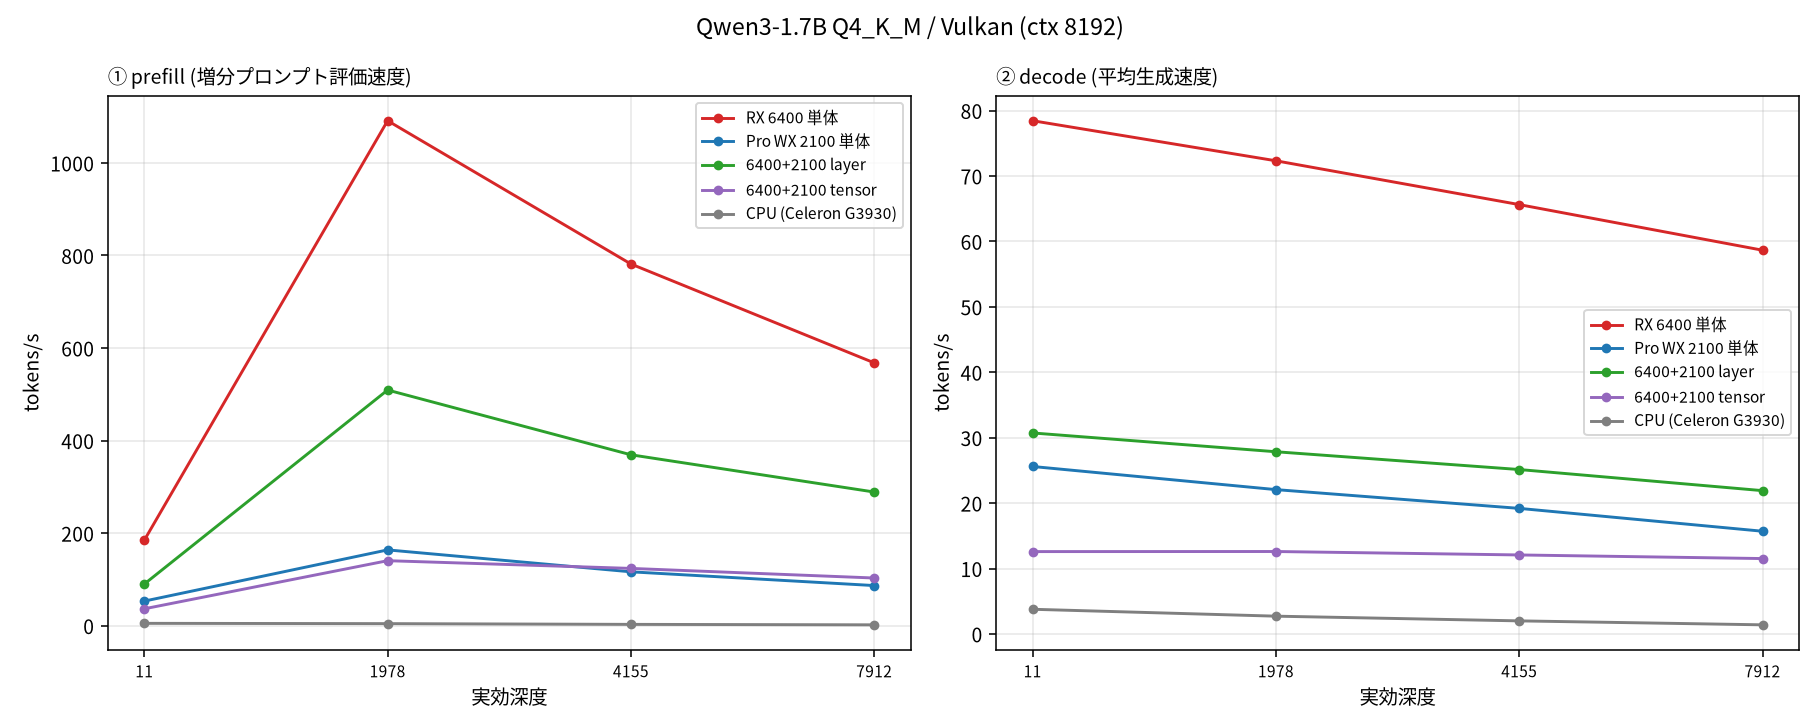
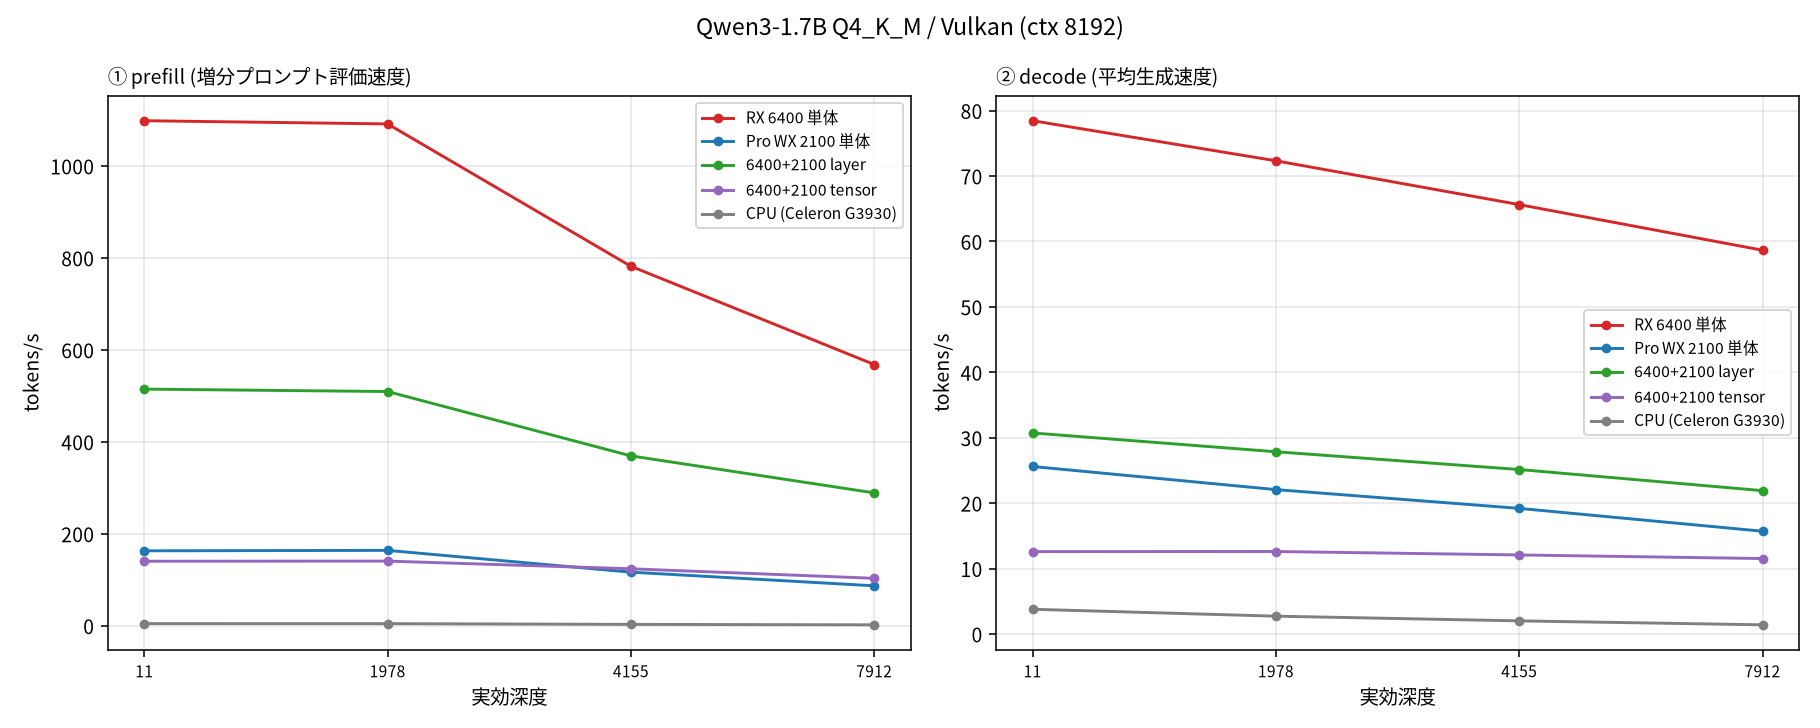
Fix depth-0 prefill artifacts and sanitize local paths in report attachments

diff --git a/report/2026-10-04_195500_multi_gpu_split_bench_on_tb250_btc_pro.md b/report/2026-10-04_195500_multi_gpu_split_bench_on_tb250_btc_pro.md
@@ -81,11 +81,11 @@ GT 730/710（GK208B, sm_35）は現行スタックでは全経路が塞がれて
 
 ![Vulkan 比較](attachment/2026-10-04_195500_multi_gpu_split_bench_on_tb250_btc_pro/qwen3-vulkan-compare.png)
 
-depth ごとの prefill / decode（t/s）。depth 0 の prefill は新規プロンプト（pp2048）の値。
+depth ごとの prefill / decode（t/s）。depth 0 の prefill は新規プロンプト（pp2048）の値です。ラダー初段（約 11 トークン）の prefill はウォームアップ計測のため表に載せていません。
 
 | depth | pp rx6400 | pp wx2100 | pp layer | pp tensor | pp cpu | dec rx6400 | dec wx2100 | dec layer | dec tensor | dec cpu |
 |------:|------:|------:|------:|------:|------:|------:|------:|------:|------:|------:|
-| ~0 | 184.7 | 53.1 | 90.0 | 36.5 | 5.1 | 78.4 | 25.6 | 30.7 | 12.6 | 3.77 |
+| ~0 | 1098.2 | 162.8 | 514.5 | 140.2 | 4.50 | 78.4 | 25.6 | 30.7 | 12.6 | 3.77 |
 | 1978 | 1091.2 | 163.8 | 509.3 | 140.5 | 4.4 | 72.3 | 22.1 | 27.8 | 12.6 | 2.71 |
 | 4155 | 781.6 | 116.4 | 369.3 | 123.8 | 2.8 | 65.6 | 19.2 | 25.1 | 12.1 | 2.00 |
 | 7912 | 568.0 | 86.7 | 288.8 | 103.0 | 1.9 | 58.7 | 15.7 | 21.9 | 11.5 | 1.39 |
@@ -101,9 +101,11 @@ depth 0 の新規プロンプト prefill（t/s）:
 
 ![CUDA 比較](attachment/2026-10-04_195500_multi_gpu_split_bench_on_tb250_btc_pro/tinyllama-cuda-compare.png)
 
+depth 0 の prefill は新規プロンプト（pp1024）の値です。初段のウォームアップ計測は除外しています。
+
 | depth | pp gt730 | pp gt710 | pp layer | pp tensor | dec gt730 | dec gt710 | dec layer | dec tensor |
 |------:|------:|------:|------:|------:|------:|------:|------:|------:|
-| ~0 | 10.0 | 6.2 | 5.8 | 7.5 | 13.3 | 6.2 | 7.4 | 11.6 |
+| ~0 | 123.0 | 58.0 | 81.8 | 99.2 | 13.3 | 6.2 | 7.4 | 11.6 |
 | 617 | 116.7 | 55.3 | 71.0 | 95.0 | 12.1 | 5.6 | 6.8 | 10.6 |
 | 1004 | 58.9 | 32.8 | 32.6 | 84.4 | 11.1 | 5.2 | 6.2 | 9.8 |
 | 1768 | 65.9 | 35.3 | 25.6 | 84.2 | 9.8 | 4.5 | 5.5 | 8.8 |
